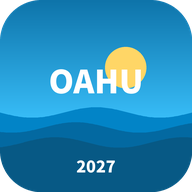
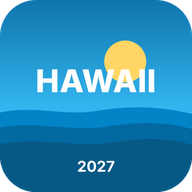
앱 아이콘 OAHU→HAWAII, 앱 이름 '결혼기념'으로 변경
Claude-Session: https://claude.ai/code/session_01XsHFmjSb7HqLK9sVTsPP62

diff --git a/index.html b/index.html
@@ -9,11 +9,11 @@
   <meta name="theme-color" content="#006493">
   <meta name="mobile-web-app-capable" content="yes">
   <meta name="apple-mobile-web-app-capable" content="yes">
-  <meta name="apple-mobile-web-app-title" content="하와이 트립">
+  <meta name="apple-mobile-web-app-title" content="결혼기념">
   <link rel="icon" type="image/png" sizes="192x192" href="/icon-192.png">
   <link rel="apple-touch-icon" href="/apple-touch-icon.png">
   <!-- 화면 스타일: Tailwind를 미리 만든 파일 (index.html의 클래스가 바뀌면 tailwind.css를 다시 만들어야 함 · tailwind.config.js 참고) -->
-  <link rel="stylesheet" href="/tailwind.css?v=202611040827">
+  <link rel="stylesheet" href="/tailwind.css?v=202611041005">
   <!-- 지도(Leaflet) · 지출 저장소(Supabase): 이 사이트에 함께 올린 파일, 화면 표시를 막지 않도록 defer -->
   <link rel="stylesheet" href="/vendor/leaflet/leaflet.css">
   <script defer src="/vendor/leaflet/leaflet.js"></script>
@@ -950,7 +950,7 @@
             <b>안드로이드 (크롬)</b><br>
             ① 크롬에서 이 주소를 엽니다<br>
             ② 오른쪽 위 <b>⋮</b> 메뉴 → <b>앱 설치</b> 또는 <b>홈 화면에 추가</b><br>
-            ③ <b>설치</b>를 누르면 홈 화면에 🌅 OAHU 아이콘이 생깁니다
+            ③ <b>설치</b>를 누르면 홈 화면에 🌅 HAWAII 아이콘(이름: 결혼기념)이 생깁니다
           </div>
           <div class="text-[12px] text-slate-700 leading-relaxed bg-slate-50 rounded-xl p-2.5 border border-slate-200">
             <b>아이폰 (사파리)</b><br>
@@ -2250,7 +2250,7 @@
     if (legQueue.length) setTimeout(pumpLegQueue, 1200);
   }
   function loadRoadLegs() {
-    fetch('/road-legs.json?v=202611040827').then(r => r.ok ? r.json() : {}).then(j => {
+    fetch('/road-legs.json?v=202611041005').then(r => r.ok ? r.json() : {}).then(j => {
       ROAD_LEGS = j || {};
       roadLegsLoaded = true;
       Object.keys(decodedLegs).forEach(k => delete decodedLegs[k]);

diff --git a/sw.js b/sw.js
@@ -4,7 +4,7 @@
 //   → 같은 이름으로 이미지를 바꿔도 다음번 열 때 반영됨
 // - 글꼴·배경 사진·지도 타일: 한 번 받으면 저장해 두고 재사용 (현지 데이터 절약 · 오프라인)
 // - Supabase(정산 데이터)·날씨 API: 저장하지 않음 (항상 최신)
-const VERSION = '202611040827';
+const VERSION = '202611041005';
 const CACHE = 'hawaii-portal-' + VERSION;
 const RUNTIME = 'hawaii-runtime-v1';
 const TILES = 'hawaii-tiles-v1';
